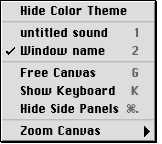
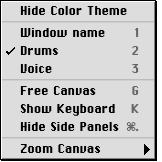
User manual: 0.6.0 screenshots

diff --git a/docs/manual/index.html b/docs/manual/index.html
@@ -168,7 +168,7 @@ footer { font-size: 13px; color: var(--muted); padding: 0 4px; }
 </div></section>
 
 <section id="tour"><h2><span>3. A tour of the screen</span></h2><div class="body">
-  <figure><img src="img/app.png" alt="The SoundEffects window with its menu bar, mixer, two sound windows, the Effects panel, the Magnetophon and the zoom bar." width="1440" height="900"><figcaption>A fresh canvas with two sounds: one empty, one holding a two-track recording.</figcaption></figure>
+  <figure><img src="img/app.png" alt="The SoundEffects window with its menu bar, the mixer, MIDI Mapping and Magnetophon on the left, three sound windows and the Effects panel." width="1440" height="900"><figcaption>Three sounds looping. Drums and Voice are grouped; MIDI Mapping is open above the Magnetophon.</figcaption></figure>
   <table>
     <tr><th>Where</th><th>What it is</th><th>Chapter</th></tr>
     <tr><td>Menu bar</td><td>File, Edit, Selection, Sound and Canvas. Every command in the app is here, with its shortcut.</td><td><a href="#shortcuts">16</a></td></tr>
@@ -200,7 +200,7 @@ footer { font-size: 13px; color: var(--muted); padding: 0 4px; }
   <h3>Colour</h3>
   <p>Each sound wears a colour from one of 24 themes, on its window and on its mixer strip. Choose one with <strong>Sound → Color</strong> (<kbd>⌘</kbd><kbd>T</kbd>). <strong>Canvas → Hide Color Theme</strong> swaps every colour for a plain Mac OS 8 grey.</p>
   <div class="row">
-    <figure><img src="img/app-menu-canvas.png" alt="The Canvas menu." width="162" height="144" style="width:243px"><figcaption>The Canvas menu.</figcaption></figure>
+    <figure><img src="img/app-menu-canvas.png" alt="The Canvas menu." width="162" height="162" style="width:243px"><figcaption>The Canvas menu.</figcaption></figure>
     <figure><img src="img/app-menu-sound-color.png" alt="The Color submenu listing the colour themes." width="147" height="438" style="width:221px"><figcaption>Sound → Color.</figcaption></figure>
   </div>
   <h3>Sound slots</h3>
@@ -289,6 +289,9 @@ footer { font-size: 13px; color: var(--muted); padding: 0 4px; }
     <li>With <strong>nothing selected</strong>, the take goes into new tracks.</li>
     <li>With a selection over one or two tracks, it goes <strong>into the selection</strong>, as a punch-in or looping over it.</li>
   </ul>
+  <div class="row">
+    <figure><img src="img/popup-select-audio-source.png" alt="The Select Audio Source dialog." width="286" height="208" style="width:286px"><figcaption>Select Audio Source…</figcaption></figure>
+  </div>
   <h3>Raw or Clean</h3>
   <p>Conversion is <strong>Clean</strong> (the default) or <strong>Raw</strong>. Untick <strong>Clean conversion</strong> in the Source dialog for the gritty, lo-fi character of the original. The dialog's level fader shows a live stereo meter of the chosen source.</p>
   <h3>Setting up audio</h3>
@@ -322,8 +325,8 @@ footer { font-size: 13px; color: var(--muted); padding: 0 4px; }
   <div class="row">
     <figure><img src="img/app-menu-edit.png" alt="The Edit menu." width="137" height="162" style="width:206px"><figcaption>The Edit menu. Undo is greyed out, always.</figcaption></figure>
     <figure><img src="img/app-menu-selection.png" alt="The Selection menu." width="192" height="256" style="width:288px"><figcaption>The Selection menu.</figcaption></figure>
-    <figure><img src="img/popup-select-exactly.png" alt="The Select Exactly dialog." width="271" height="214" style="width:271px"><figcaption>Select Exactly…</figcaption></figure>
-    <figure><img src="img/popup-shift-sound.png" alt="The Shift Sound dialog." width="271" height="176" style="width:271px"><figcaption>Shift Sound…</figcaption></figure>
+    <figure><img src="img/popup-select-exactly.png" alt="The Select Exactly dialog." width="286" height="207" style="width:286px"><figcaption>Select Exactly…</figcaption></figure>
+    <figure><img src="img/popup-shift-sound.png" alt="The Shift Sound dialog." width="286" height="167" style="width:286px"><figcaption>Shift Sound…</figcaption></figure>
   </div>
   <div class="warn"><b>No undo.</b> Cut, Clear, Crop and every effect change the audio for good. Use <strong>Save Canvas as…</strong> to keep a copy to go back to.</div>
 </div></section>
@@ -354,14 +357,18 @@ footer { font-size: 13px; color: var(--muted); padding: 0 4px; }
   <p>Some buttons are greyed out when they cannot apply. <strong>Sum</strong>, <strong>Difference</strong> and <strong>Iterative Crossfade</strong> need a selection across more than one track, for example.</p>
   <h3>Waveform Generator and Echo</h3>
   <p>The Waveform Generator's <strong>Wave</strong> menu offers Triangle (the default), Sawtooth, Sine and Square. In Echo, <strong>Only N echoes</strong> gives exactly that many echoes of the selection (80 at most).</p>
+  <div class="row">
+    <figure><img src="img/tray-waveform-generator.png" alt="The Waveform Generator tray with its Wave menu." width="268" height="217" style="width:268px"><figcaption>The Waveform Generator.</figcaption></figure>
+  </div>
   <h3>Setups</h3>
   <p>Every effect with a tray has a <strong>Setup</strong> menu. Save your values under a name and call them up later. <strong>Manage setup…</strong> renames or deletes one; deleting does not ask for confirmation. Setups are saved with your preferences.</p>
-  <figure><img src="img/popup-save.png" alt="The dialog that saves an effect setup under a name." width="268" height="136"><figcaption>Saving a setup.</figcaption></figure>
+  <figure><img src="img/popup-save.png" alt="The sheet that saves an effect setup, slid down over its tray." width="268" height="341"><figcaption>Saving a setup.</figcaption></figure>
+  <figure><img src="img/popup-manage.png" alt="The Manage Setup sheet over an effect tray." width="268" height="345" style="width:268px"><figcaption>Manage setup…</figcaption></figure>
 </div></section>
 
 <section id="mixer"><h2><span>10. The mixer</span></h2><div class="body">
   <div class="row">
-    <figure><img src="img/mixer.png" alt="The mixer panel with two strips, New Sound and Open Sound buttons, and the Main Level fader." width="540" height="1250" style="width:270px"></figure>
+    <figure><img src="img/mixer.png" alt="The mixer panel with three strips, two of them grouped, the New Sound and Open Sound buttons, and the Main Level footer with its mute box." width="540" height="664" style="width:270px"></figure>
     <div style="flex:1; min-width: 260px">
       <p>The mixer has <strong>one strip per window</strong>, in numbered slots, in the window's colour. Press <kbd>1</kbd> to <kbd>0</kbd> to select a slot.</p>
       <ul>
@@ -405,12 +412,13 @@ footer { font-size: 13px; color: var(--muted); padding: 0 4px; }
     <li>Choose a sound in the <strong>Sound</strong> menu. The pad keeps the sound's <em>mixer slot number</em>: if you reorder the mixer, the note drives whichever sound is then in that slot.</li>
     <li>Choose what happens <strong>at note start</strong> (Play, Stop or Pause) and <strong>at note end</strong> (Stop, Pause or Play). A note that starts with Stop or Pause ends with Play.</li>
   </ol>
+  <figure><img src="img/midi-mapping.png" alt="The MIDI Mapping panel: twelve note pads, three of them assigned, the Sound menu and the note start and end choices." width="540" height="522" style="width:270px"><figcaption>The MIDI Mapping panel.</figcaption></figure>
   <p>Assigned pads wear their sound's colour, and turn dark while their note comes in. One sound may be on several notes: the latest note wins. A mapped note acts like pressing the sound's own button, so it also drives that sound's <a href="#group">group</a>. The mapping is saved with the canvas.</p>
 </div></section>
 
 <section id="tape"><h2><span>13. The Magnetophon</span></h2><div class="body">
   <div class="row">
-    <figure><img src="img/magnetophon.png" alt="The Magnetophon panel: two tape reels, a take list and its own transport." width="540" height="550" style="width:270px"></figure>
+    <figure><img src="img/magnetophon.png" alt="The Magnetophon panel: two tape reels, a take list and its own transport." width="540" height="548" style="width:270px"></figure>
     <div style="flex:1; min-width: 260px">
       <p>The Magnetophon is a reel-to-reel tape recorder under the mixer. It is a quick way to capture what the canvas is doing.</p>
       <ul>
@@ -423,6 +431,7 @@ footer { font-size: 13px; color: var(--muted); padding: 0 4px; }
       <div class="warn"><b>The tape is not saved.</b> It lives for the session. Use Send to keep a take. Closing a canvas warns you while takes are unsent.</div>
     </div>
   </div>
+  <figure><img src="img/popup-send-to-canvas.png" alt="The Send to Canvas dialog, listing the takes." width="286" height="318" style="width:286px"><figcaption>Send to Canvas.</figcaption></figure>
 </div></section>
 
 <section id="files"><h2><span>14. Saving and files</span></h2><div class="body">
@@ -435,6 +444,10 @@ footer { font-size: 13px; color: var(--muted); padding: 0 4px; }
     <tr><td>Open Sound</td><td><kbd>⌘</kbd><kbd>O</kbd></td><td>Reads a WAV or AIFF file into a new window. Stereo arrives as two tracks.</td></tr>
     <tr><td>Export Sound… / Import Sound…</td><td></td><td>Move a single sound between canvases. Export also writes a <strong>WAV stereo mixdown</strong> (the sound as its mixer strip plays it: routing, volume and balance, without Main Level) or <strong>WAV mono stems</strong> (one file per track, before the fader).</td></tr>
   </table>
+  <div class="row">
+    <figure><img src="img/popup-export-sound.png" alt="The Export Sound dialog." width="356" height="107" style="width:356px"><figcaption>Export Sound…</figcaption></figure>
+    <figure><img src="img/alert-revert.png" alt="The alert shown before Revert Canvas." width="356" height="140" style="width:356px"><figcaption>An alert, here before Revert Canvas.</figcaption></figure>
+  </div>
   <p><strong>Audio/Midi Setup</strong> (in the app, not the plug-ins) sets the output and input devices and channels, sample rate, buffer size and MIDI inputs, with a Test button and a switch that mutes the audio input.</p>
   <p>The app also keeps your last canvas for you: it is written to its settings file when you quit, and opens again at launch. Do not rely on this as your only copy.</p>
   <figure><img src="img/app-menu-file.png" alt="The File menu." width="181" height="216" style="width:271px"><figcaption>The File menu.</figcaption></figure>
